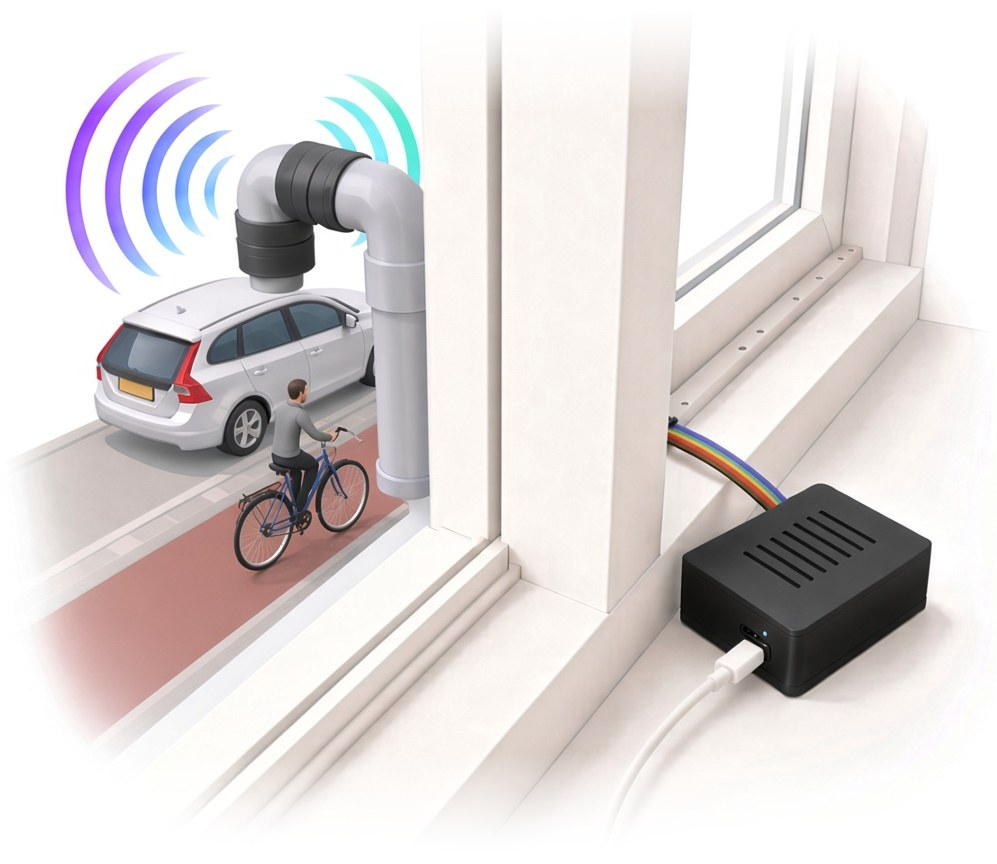
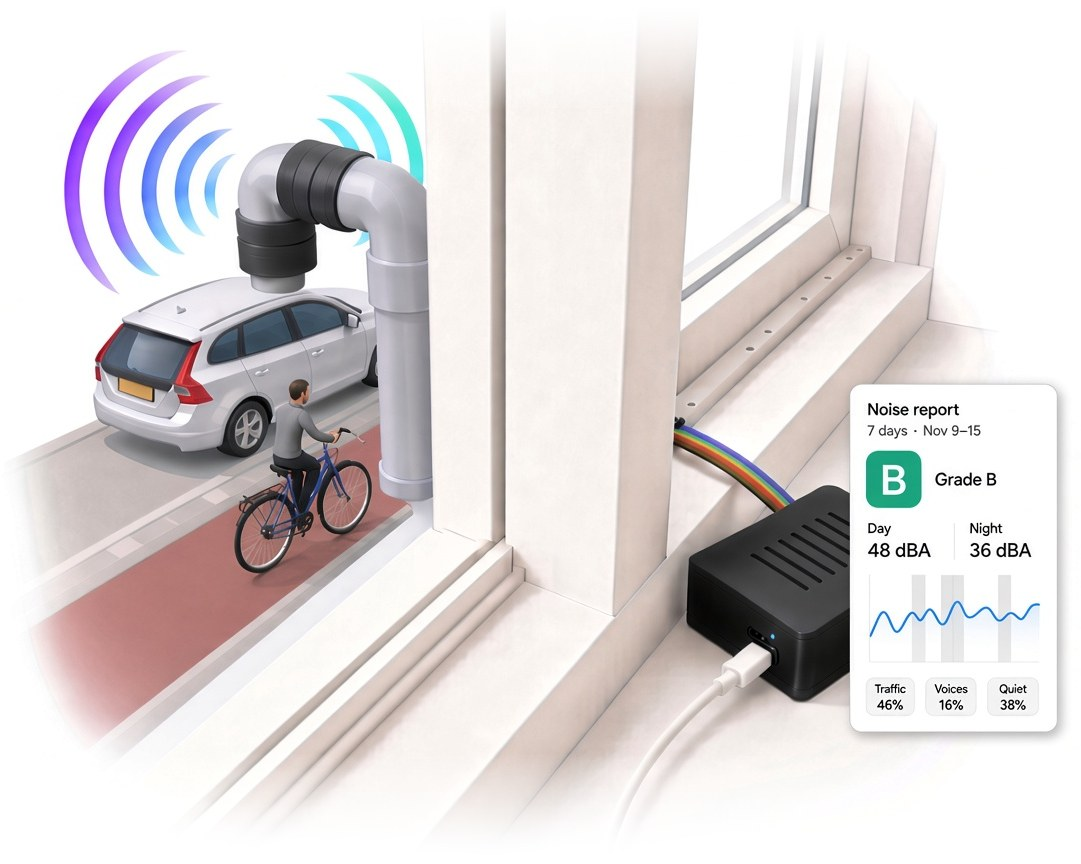
Rename Applications to Who it's for and show a week report on the setup graphic.

diff --git a/index.html b/index.html
@@ -160,7 +160,7 @@
 
       <nav class="hidden lg:flex items-center gap-4 xl:gap-6" aria-label="Primary">
         <a class="font-body-md text-body-md text-on-surface-variant hover:text-on-surface transition-colors" data-nav href="#features">Features</a>
-        <a class="font-body-md text-body-md text-on-surface-variant hover:text-on-surface transition-colors" data-nav href="#use-cases">Applications</a>
+        <a class="font-body-md text-body-md text-on-surface-variant hover:text-on-surface transition-colors whitespace-nowrap" data-nav href="#use-cases">Who it's for</a>
         <a class="font-body-md text-body-md text-on-surface-variant hover:text-on-surface transition-colors whitespace-nowrap" data-nav href="#how-it-works">How it works</a>
         <a class="font-body-md text-body-md text-on-surface-variant hover:text-on-surface transition-colors" data-nav href="#pricing">Pricing</a>
         <a class="font-body-md text-body-md text-on-surface-variant hover:text-on-surface transition-colors" data-nav href="#contact">Contact</a>
@@ -178,7 +178,7 @@
     <div id="mobile-menu" class="hidden lg:hidden border-t border-border-subtle bg-surface-white/95 backdrop-blur-xl">
       <nav class="max-w-7xl mx-auto px-6 py-4 flex flex-col gap-1" aria-label="Mobile">
         <a class="font-body-md text-body-md text-on-surface-variant hover:text-on-surface py-3" data-nav href="#features">Features</a>
-        <a class="font-body-md text-body-md text-on-surface-variant hover:text-on-surface py-3" data-nav href="#use-cases">Applications</a>
+        <a class="font-body-md text-body-md text-on-surface-variant hover:text-on-surface py-3" data-nav href="#use-cases">Who it's for</a>
         <a class="font-body-md text-body-md text-on-surface-variant hover:text-on-surface py-3" data-nav href="#how-it-works">How it works</a>
         <a class="font-body-md text-body-md text-on-surface-variant hover:text-on-surface py-3" data-nav href="#pricing">Pricing</a>
         <a class="font-body-md text-body-md text-on-surface-variant hover:text-on-surface py-3" data-nav href="#contact">Contact</a>
@@ -353,13 +353,12 @@
           <div class="max-w-7xl mx-auto px-6 lg:px-12">
             <div class="max-w-3xl mb-16">
               <div class="inline-flex items-center gap-2 px-3 py-1 rounded-full bg-surface-container-high mb-3">
-                <span class="font-label-badge text-label-badge text-secondary uppercase tracking-wider font-bold">Applications</span>
+                <span class="font-label-badge text-label-badge text-secondary uppercase tracking-wider font-bold">Who it's for</span>
               </div>
-              <h2 class="font-headline-lg text-headline-lg-mobile md:text-headline-lg text-on-surface tracking-tight font-bold">Who it's for</h2>
-              <p class="font-body-lg text-body-lg text-on-surface-variant mt-3">Real measurements for buyers, renters, agents, landlords and municipalities.</p>
+              <h2 class="font-headline-lg text-headline-lg-mobile md:text-headline-lg text-on-surface tracking-tight font-bold">Real measurements for buyers, renters, agents, landlords and municipalities</h2>
             </div>
 
-            <div class="flex flex-wrap items-center gap-3 mb-10 border-b border-border-subtle pb-4" role="group" aria-label="Applications">
+            <div class="flex flex-wrap items-center gap-3 mb-10 border-b border-border-subtle pb-4" role="group" aria-label="Who it's for">
               <button type="button" class="px-4 py-2 rounded-full font-title-md text-body-sm font-semibold bg-primary-container text-on-primary-container shadow-sm cursor-pointer" data-audience-tab="buyers" aria-pressed="true">Homebuyers &amp; Renters</button>
               <button type="button" class="px-4 py-2 rounded-full font-title-md text-body-sm font-medium bg-surface-container-lowest text-on-surface-variant hover:text-on-surface border border-border-subtle cursor-pointer" data-audience-tab="agents" aria-pressed="false">Real Estate Agents</button>
               <button type="button" class="px-4 py-2 rounded-full font-title-md text-body-sm font-medium bg-surface-container-lowest text-on-surface-variant hover:text-on-surface border border-border-subtle cursor-pointer" data-audience-tab="managers" aria-pressed="false">Property Managers</button>
@@ -433,7 +432,7 @@
               <p class="font-body-lg text-body-lg text-on-surface-variant mt-3">We bring the equipment, it measures for a week, and we walk you through what it found.</p>
             </div>
 
-            <img src="assets/how-it-works-setup.jpg" width="997" height="864" loading="lazy" class="w-full h-auto max-w-md lg:max-w-lg mx-auto mb-12 md:mb-16" alt="The microphone pipe stands outside the window facing the street, and the noiserisk box sits on the inside sill, plugged in, with a ribbon cable running through the edge of the closed window">
+            <img src="assets/how-it-works-setup.jpg" width="1081" height="864" loading="lazy" class="w-full h-auto max-w-md lg:max-w-lg mx-auto mb-12 md:mb-16" alt="The microphone pipe stands outside the window facing the street, the noiserisk box sits on the inside sill with a ribbon cable through the closed window edge, and a stylised week-long noise report shows Grade B, day and night levels, and noise sources">
 
             <ol class="grid grid-cols-1 md:grid-cols-3 gap-6 lg:gap-8">
               <li class="bg-surface-container-low rounded-2xl p-8">
